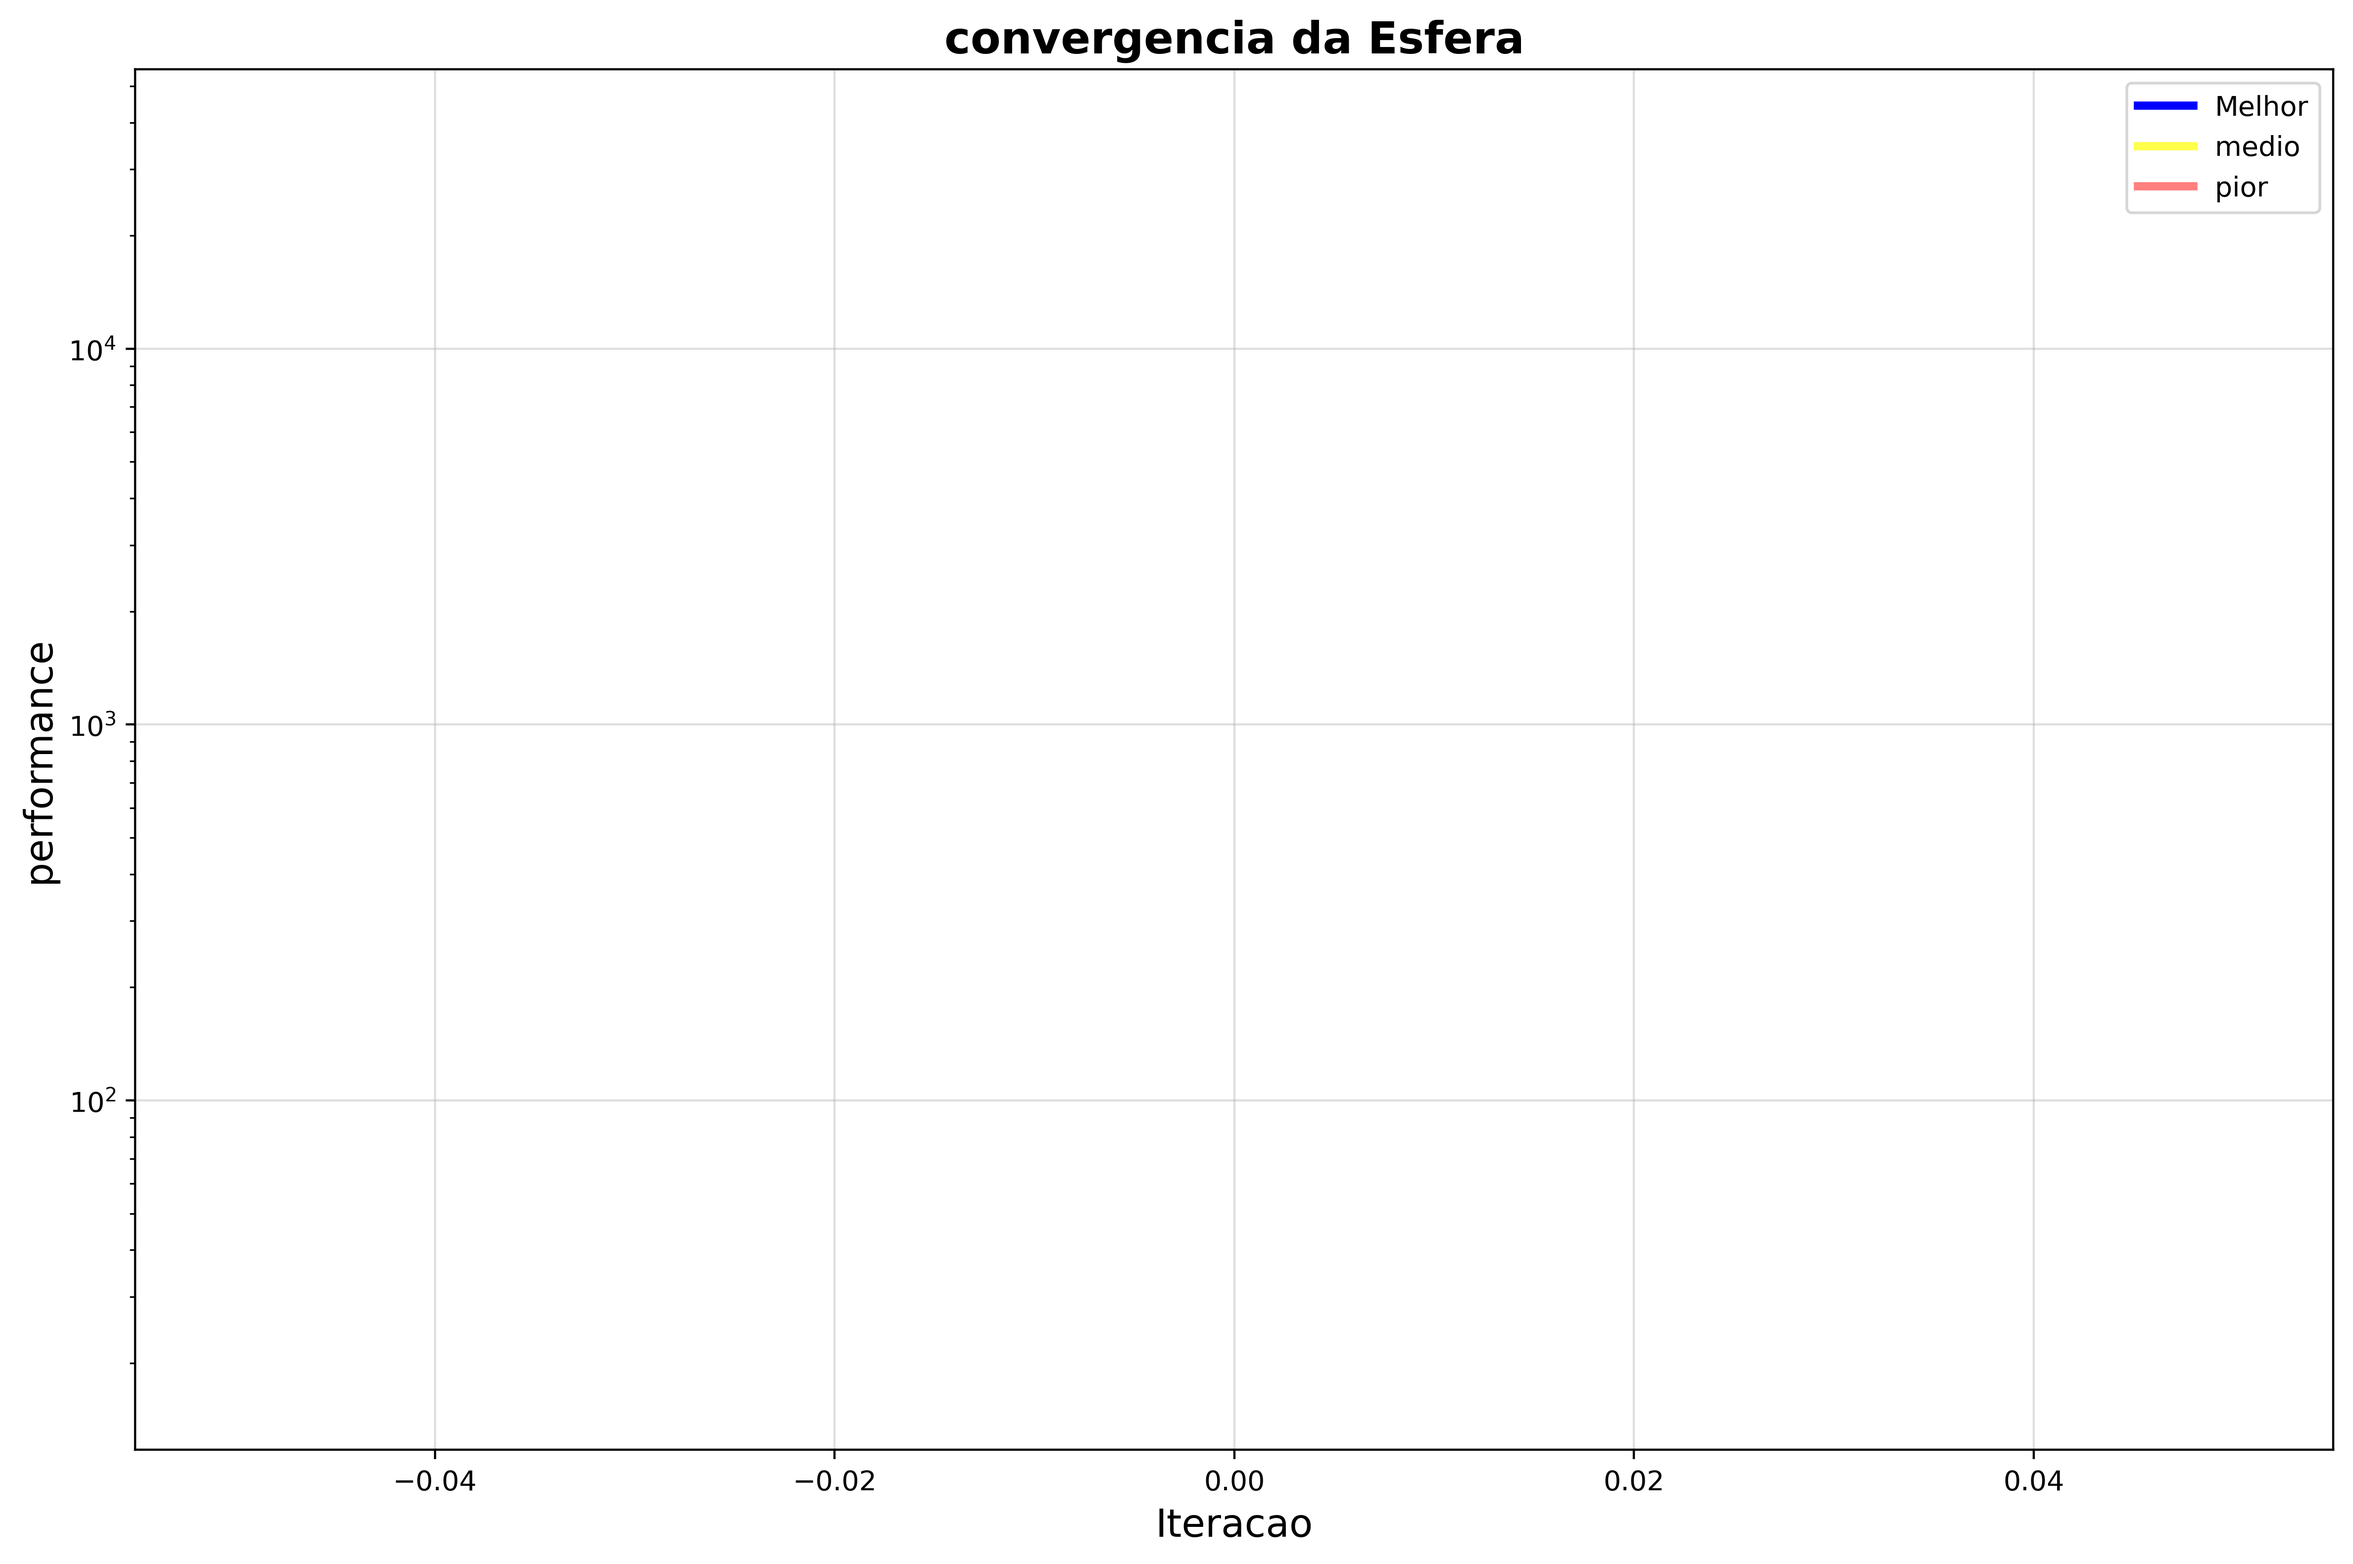
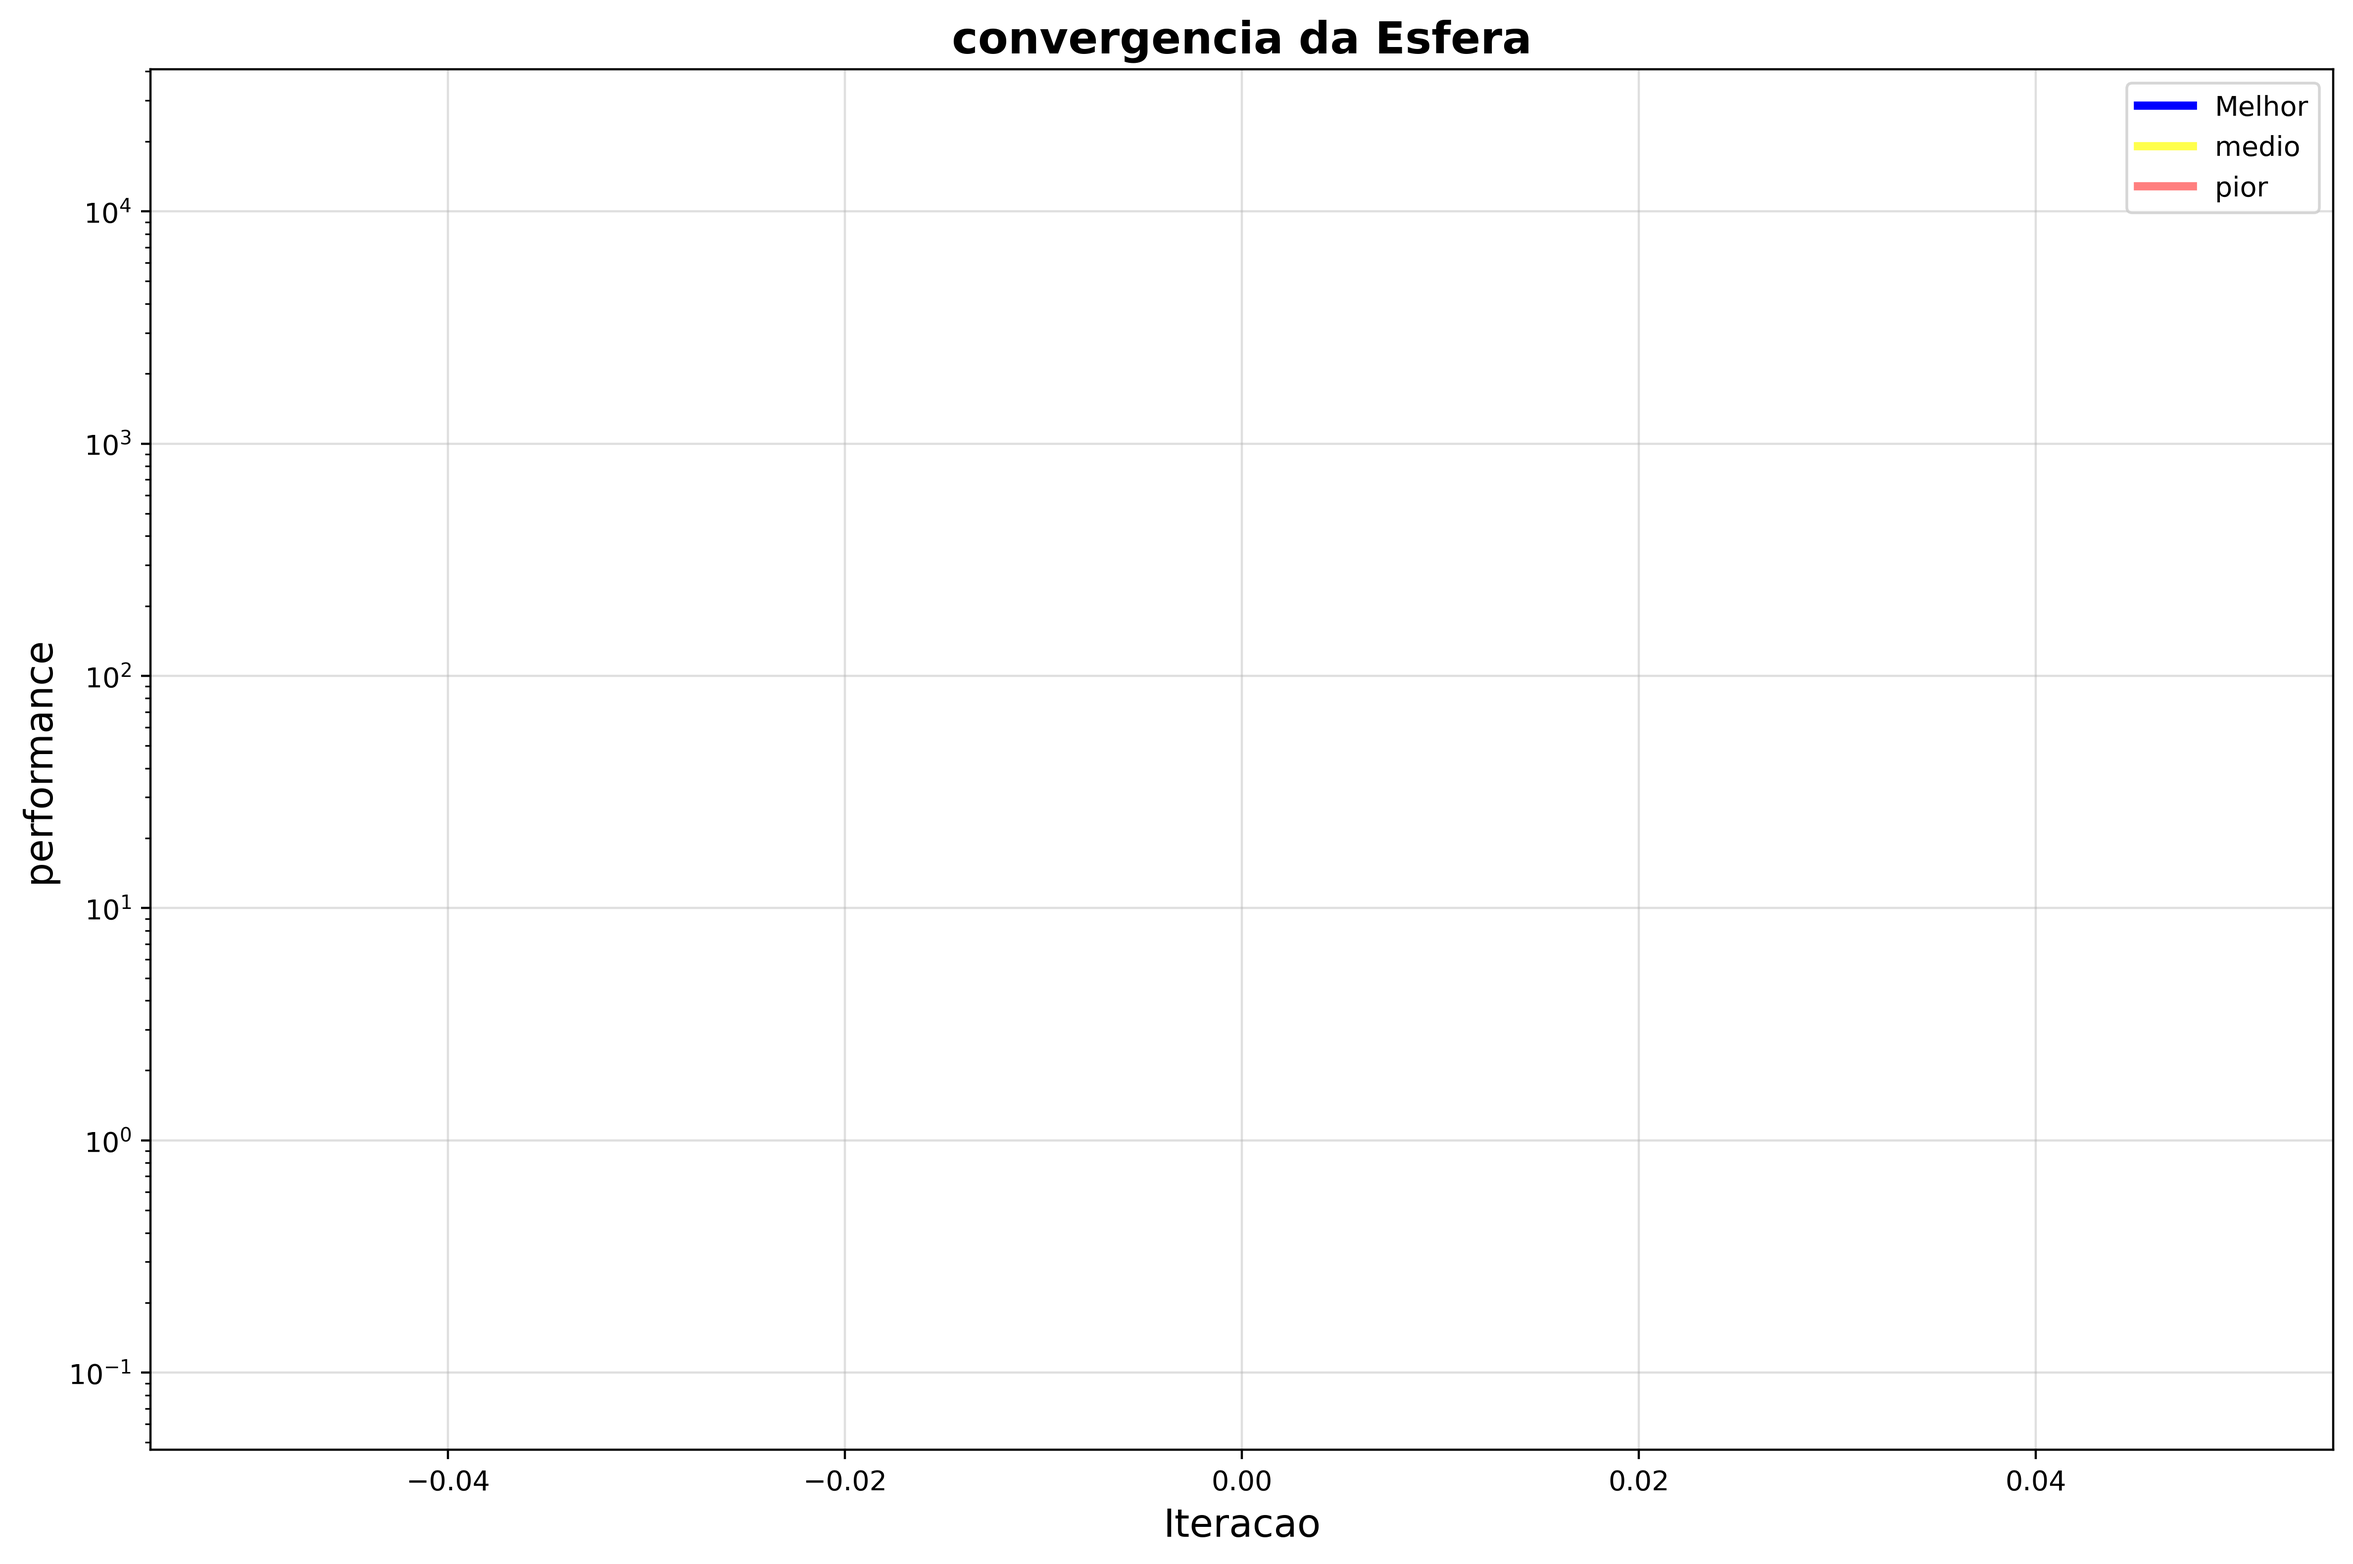
update results

diff --git a/src/utils/plot.py b/src/utils/plot.py
@@ -9,7 +9,7 @@ class plot:
         self.diretorioGraficos.mkdir(parents=True, exist_ok=True)
 
 
-    def salvar(self,filename,show):
+    def _salvar(self,filename,show):
         if filename:
             caminho = self.diretorioGraficos / filename
             plt.savefig(caminho, dpi=400, bbox_inches='tight')
@@ -22,7 +22,7 @@ class plot:
         
         plt.figure(figsize=(12,8))
 
-        interacoes = range(len(historia['best_fitness']))
+        interacoes = list(range(len(historia['best_fitness'])))
         
         plt.plot(interacoes, historia['best_fitness'], label='Melhor', linewidth=3,color='blue')
         plt.plot(interacoes, historia['mean_fitness'], label='medio', linewidth=3,color='yellow',alpha=0.7)
@@ -72,8 +72,8 @@ class plot:
         colors = plt.cm.tab10(np.linspace(0, 1, len(historicos)))
 
         for i, (name, history) in enumerate(historicos.items()):
-            iterations = range(len(history['melhor performance']))
-            plt.plot(iterations, history['melhor performance'], 
+            iterations = range(len(history['best_fitness']))
+            plt.plot(iterations, history['best_fitness'], 
                     label=name, linewidth=4, color=colors[i])
         
         plt.xlabel('Iteração', fontsize=14)
@@ -84,9 +84,9 @@ class plot:
         plt.yscale('log')
         plt.tight_layout()
 
-        self.salvar(filename,show)
+        self._salvar(filename,show)
 
-    def boxplot(self,resultados,filename=None,show =True):
+    def PlotBoxplot(self,resultados,filename=None,show =True):
         nomes = list(resultados.keys())
         dados = [resultados[n] for n in nomes]
 
@@ -121,7 +121,7 @@ class plot:
         areaTabela.axis('tight')
         areaTabela.axis('off')
 
-        valores_formatados = estatistica.applymap(
+        valores_formatados = estatistica.map(
             lambda i: f"{i:.3f}" if isinstance(i,float) else i).values
         
         tabela = areaTabela.table(
@@ -136,7 +136,7 @@ class plot:
         tabela.set_fontsize(10)
         tabela.scale(1,1.6)   
 
-        for (linha,coluna), celula in tabela.get_celld.items():
+        for (linha,coluna), celula in tabela.get_celld().items():
             if linha == 0:
                 celula.set_facecolor('#4CAF54')
                 celula.set_text_props(weight='bold',color='blue')
